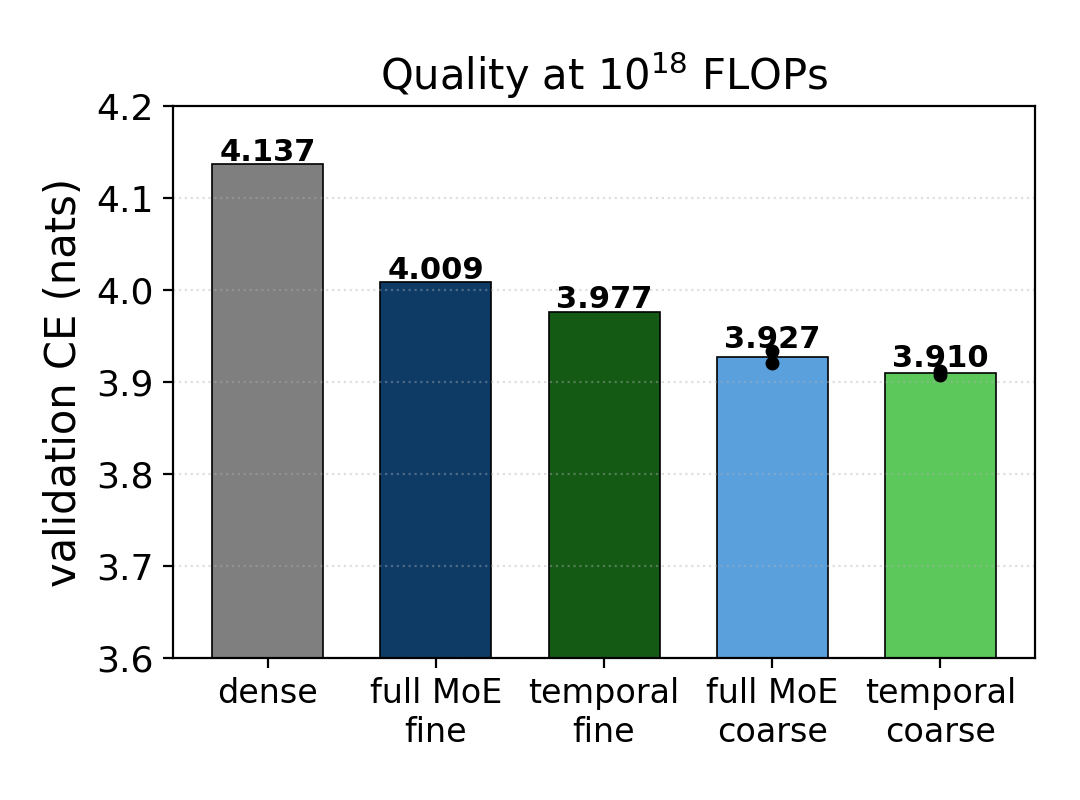
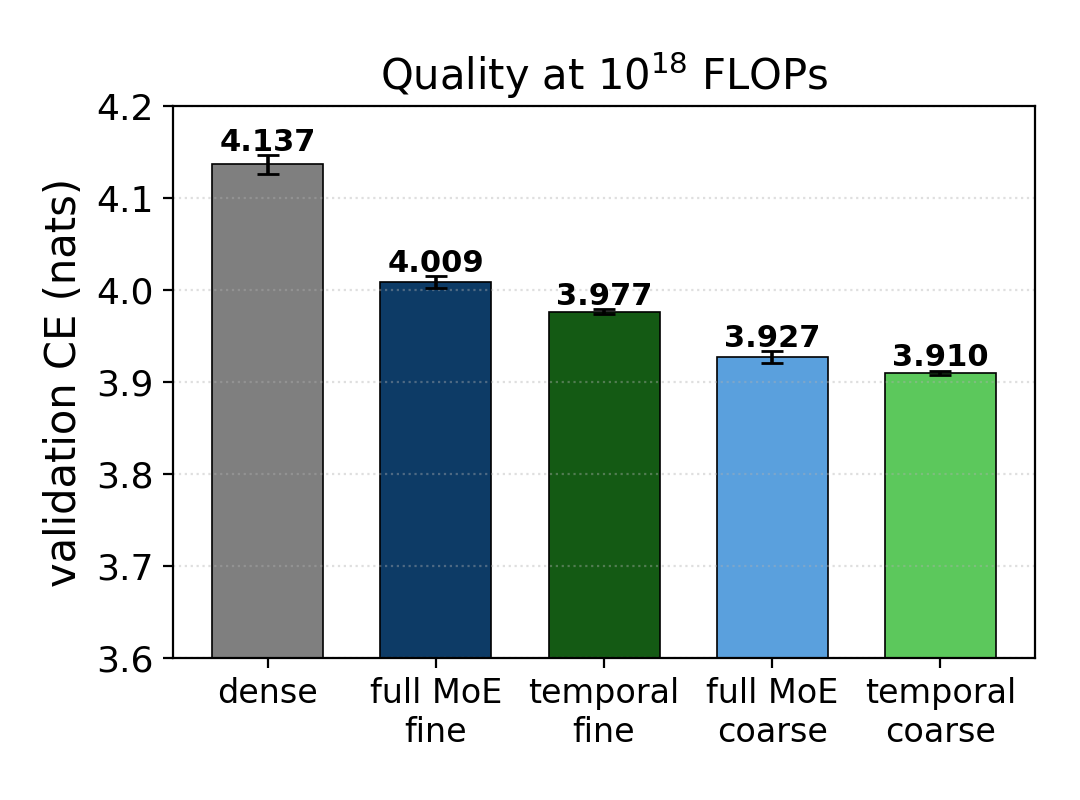
Figure 1 right: error bars on all five bars (replace seed dots)
Measured two-seed half-ranges on the coarse bars (MoE 0.0064, temporal
0.0024); method-matched estimates on the single-seed fine bars; the
documented +/-0.01 cross-data uncertainty on dense. Caption states which are
measured vs estimated. Still 4 pages; PDF inspected.

diff --git a/scripts/phase0/plot_1e18.py b/scripts/phase0/plot_1e18.py
@@ -25,23 +25,22 @@ if PAPER:
 # (gray dense, blue MoE, green temporal), shade = granularity (coarse normal / fine dark).
 # Only dense is A6000 cross-data (different val split, within ~0.01 nats) — noted in the caption;
 # the other four are local, one shared split. Coarse arms: two seeds each (val@2121 basis),
-# bar = seed mean, dots = individual seeds.
-SEEDS  = {3: [3.9209, 3.9336], 4: [3.9121, 3.9074]}   # bar index -> seed values
+# bar = seed mean. Error bars: MEASURED two-seed half-ranges on the coarse bars (MoE 0.0064,
+# temporal 0.0024); the single-seed fine bars carry the METHOD-MATCHED coarse half-range as an
+# estimate; dense carries its documented +/-0.01 cross-data uncertainty.
 ce     = [4.137, 4.0087, 3.9768, 3.9273, 3.9098]      # coarse bars = two-seed means
+yerr   = [0.010, 0.0064, 0.0024, 0.0064, 0.0024]      # dense xdata | fine est. | coarse measured
 colors = ["#7f7f7f", "#0d3b66", "#145a14", "#5aa0dd", "#5cc85c"]
 labels = (["dense", "full MoE\nfine", "temporal\nfine", "full MoE\ncoarse", "temporal\ncoarse"] if PAPER else
           ["dense\nbaseline", "full MoE\nfine (18 of 192)", "temporal\nfine (18 of 192)",
            "full MoE\ncoarse (6 of 64)", "temporal\ncoarse (6 of 64)"])
 
 fig, ax = plt.subplots(figsize=(5.4, 4.0) if PAPER else (8.6, 5.8))
-bars = ax.bar(labels, ce, color=colors, width=0.66, edgecolor="k", linewidth=0.6)
-for i, (b, v) in enumerate(zip(bars, ce)):
-    lab_y = max([v] + SEEDS.get(i, [])) + 0.004
-    ax.text(b.get_x()+b.get_width()/2, lab_y, f"{v:.3f}", ha="center",
+bars = ax.bar(labels, ce, color=colors, width=0.66, edgecolor="k", linewidth=0.6,
+              yerr=yerr, capsize=(4 if PAPER else 5), error_kw=dict(lw=1.3, ecolor="k", zorder=5))
+for b, v, e in zip(bars, ce, yerr):
+    ax.text(b.get_x()+b.get_width()/2, v + e + 0.005, f"{v:.3f}", ha="center",
             fontsize=(11 if PAPER else 10.5), fontweight="bold")
-    if i in SEEDS:
-        xc = b.get_x() + b.get_width()/2
-        ax.plot([xc]*len(SEEDS[i]), SEEDS[i], "o", color="k", ms=4, zorder=5)
 ax.grid(True, axis="y", ls=":", alpha=0.4)
 
 if PAPER:

diff --git a/paper/main.tex b/paper/main.tex
@@ -120,10 +120,11 @@ FLAME-MoE-38M-100M exactly (4.45B tokens) and report validation cross-entropy.
   $10^{16}$, triangle $10^{17}$)). Temporal MoE (green) lands inside the dense-to-MoE band at every
   size and preserves both baselines' compute-optimal shapes; recovery at the optima is 72--77\%
   fine-grained and 82\% coarse. \textbf{Right,}
-  $10^{18}$-FLOP points (validation cross-entropy; colors as left; dots = seeds on the two-seed
-  coarse bars). Dense 4.137, fine-grained MoE 4.009, fine-grained temporal 3.977, coarse MoE
-  3.927, coarse temporal 3.910; temporal matches or exceeds its full-MoE counterpart at both
-  granularities. Only dense is A6000 cross-data ($\pm$0.01 nats); the rest share one local split.}
+  $10^{18}$-FLOP points (validation cross-entropy; colors as left). Error bars: measured two-seed
+  ranges (coarse), method-matched estimates (single-seed fine), $\pm$0.01 cross-data uncertainty
+  (dense; the rest share one local split). Dense 4.137, fine-grained MoE 4.009, fine-grained
+  temporal 3.977, coarse MoE 3.927, coarse temporal 3.910; temporal matches or exceeds its
+  full-MoE counterpart at both granularities.}
   \label{fig:isoflop}
 \end{figure}
 
